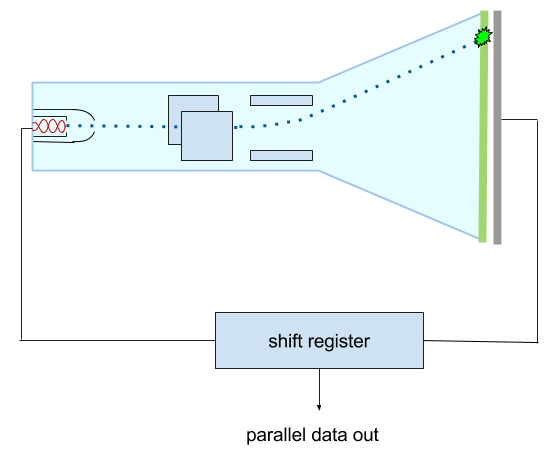
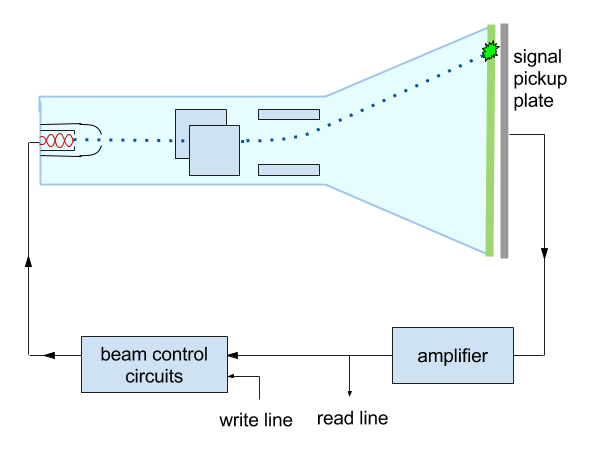
wheee last edit

diff --git a/content/post/2016-08-07-williams-tube.md b/content/post/2016-08-07-williams-tube.md
@@ -5,45 +5,53 @@ draft: true
 tags: [computers, history of technology, storage]
 ---
 
-Last post, we described the fairly ubiquitous punch card, a mechanical write-once mechanism for storing information. Both the [Colossus](https://en.wikipedia.org/wiki/Colossus_computer) and the [ENIAC](https://en.wikipedia.org/wiki/ENIAC) used paper tape for data input, but a complicated system of patchcords for the control programs. Reprogamming these machines was a huge undertaking, and researchers began to discuss using the same storage mechanisms for both program control and data input.
+In the [last post](/post/2016-07-27-punch-cards/), we discussed the fairly ubiquitous punch card, a mechanical write-once mechanism. Punch cards were mostly used for data, though, and control programs were inputted through a complicated system of patch cords. Reprogamming these machines was a huge undertaking! To speed up this process, researchers proposed using easily replaceable storage mechanisms for storing both programs and data input.
 
-This sort of truly reprogrammable computer would require some sort of memory device to store the programs. While it's possible to build computers using mechanical memory, most mechanical memory systems are slow and fiddly. Developing electronic storage was the next big frontier in computer design.
+{{<figure class="left" src="/images/williams-tube/eniac4.png" caption="Two women wiring a portion of ENIAC with a new program." attr="U.S. Army Photo." attrlink="http://ftp.arl.mil/ftp/historic-computers">}}
 
-With the stage set, let's now pick up the story in Manchester (coincidentally, a city well-known for its textiles industry.)
+While it's possible to build computers using mechanical memory, most mechanical memory systems are slow and fiddly. Developing electronic storage was the next big frontier in computer design.
 
-## Cathode ray tubes and radar
+With the stage set, let's pick up the story in Manchester (coincidentally, a city well-known for its textiles industry!) In the late 1940s, researchers at Manchester University developed the first electronic computer memory, essentially by cobbling together surplus World War II radar parts. By making a few ingenious modifications to a cathode ray tube, Frederic Williams' and Tom Kilburn's lab at Manchester built the first truly reprogrammable computer.
 
-The first cathode ray tube used as display was invented just before the turn of the 20th century. They were soon used widely for oscilloscopes, and TKTK other uses. Cathode ray tubes were a common way to display electrical information.
+## An early history of cathode ray tubes
 
-// image of a WWII era radar screen
+The first display cathode ray tube was invented just before the turn of the 20th century. These tubes were soon used widely as display units for oscilloscopes and other scientific instrumentation. Soon, cathode ray tubes became the defacto method of displaying electrical information.
 
-During the Second World War, cathode ray tubes became ubiquitous in radar systems, which kicked off research and development of more advanced CRT technology. One promising advance was adding delay lines to CRT displays to allow you to track the movement of radar targets over time. While at the Telecommunications Research Institute, Frederic C. Williams began researching using cathode ray tubes themselves as a memory storage device, instead of adding a separate delay line in. When Williams accepted a professorship at the University of Manchester, he brought his CRT research with him, along with his his colleague Tom Kilburn.
+During the Second World War, cathode ray tubes became ubiquitous in radar systems, which jump-started research into more advanced CRT technology. For example, researchers added delay lines into radar systems, so the systems could store and filter out out non-moving objects, like buildings and telephone poles.[^delay]
 
-## Secondary effects
+These early delay line systems were well-suited for conversion into computer memory. One branch of research adapted the delay lines as computer memory (which we'll talk about next post!), and another investigated using the CRTs themselves to store data. A group at Bell Labs attempted to cancel out ground objects by transferring data from one CRT to another.[^ground] During a visit to the labs, Frederic C. Williams learned of this effort, and he and Tom Kilburn attempted to use the same CRT setup to store digital data. When Williams accepted a professorship at the University of Manchester, he brought both his CRT research and Tom Kilburn with him.
 
-A conventional CRT displays an image by firing an electron beam at a phosphorescent screen. Two electrostatic plates (or magnets[^1]) steer the beam around, scanning across the entire screen.
+## Secondary effects: principles of operation
+
+Backing up a moment to discuss how CRTs work -- a conventional CRT displays an image by firing an electron beam at a phosphorescent screen. Two electrostatic plates (or magnets[^1]) steer the beam around, scanning across the entire screen.
 
 {{<figure class="left" src="/images/williams-tube/cathode-ray-tube.png">}}
 
-The brightness, color, and persistence of the scintillation depends on the type of phosphor on the screen. Depending on the phosphor and the energy of the electron beam, the bright spot lasts from microseconds to several seconds. In normal operation of a CRT, though, once written, the bright spot on the screen can't be detected again electronically.
+The brightness, color, and persistence of the scintillation depends on the type of phosphor on the screen. Depending on the phosphor and the energy of the electron beam, the bright spot lasts from microseconds to several seconds. During normal operation of a CRT, though, once written, the bright spot on the screen can't be detected again electronically.
 
-However, if you crank up the energy of the electron beam, the beam knocks a few electrons out of the phosphor. These electrons deposit a little distance away from the bright spot, leaving a little charged bullseye. You can electronically detect the charged area the [secondary emission](https://en.wikipedia.org/wiki/Secondary_emission) leaves behind.
+However, if you crank up the energy of the electron beam, the beam knocks a few electrons out of the phosphor, which is an effect called secondary emission. The electrons deposit a little distance away from the bright spot, leaving a little charged bullseye that persists for a little while.
 
-If you coat the surface with a poor conductor, instead of a phosphor, you get an even stronger secondary emission. (TK: check with harold) To read the data, the tube takes advantage of another secondary effect. When the electron beam hits the screen, the secondary emission of electrons induces a small voltage in any conductors near it.  If you place a thin metal surface in front of the surface, the screen and the coating together serve as a capacitor, separated by the glass of the screen. Changes in voltage on the screen induce a change in the screen, as well.
+To read the data, the tube takes advantage of another secondary effect. When the electron beam hits the screen, the secondary emission of electrons induces a small voltage in any conductors near it.  If you place a thin metal surface in front of the surface, the screen and the coating together serve as a capacitor, separated by the glass of the screen. Changes in voltage on the screen induce a change in the screen, as well.
 
 {{<figure class="left" src="/images/williams-tube/williams-tube.png">}}
 
-To write the data, the electron beam sweeps across the face of the tube, turning on and off to represent the binary data. The little charged areas across the screen represent little capacitors that are either charged up or not.
+To recap:
 
-To read the data, the electron beam again sweeps across the face of the tube, but stays on through the sweep. This writes a 1 to all the registers on the screen. If there were a 1 written there already, the point of positive charge on the screen gets neutralized, discharging the "capacitor." The pickup screen thus sends a pulse of current. If there were a 0, the screen is charged, and the pickup plate sees no pulse. By noting the pattern of current that comes through the pickup plate, you can determine what bit was stored in the register.
+To write data, the electron beam sweeps across the face of the tube, turning on and off to represent the binary data. The little charged areas across the screen are essentially little charged/uncharged capacitors.
+
+To read data, the electron beam again sweeps across the face of the tube, but stays on at a lower energy. If there were a 1 written there already, the point of positive charge on the screen gets neutralized, discharging the capacitor. The pickup screen thus sends a pulse of current. If there were a 0, no discharge occurs, and the pickup plate sees no pulse. By noting the pattern of current that comes through the pickup plate, you can determine what bit was stored in the register.[^tube]
 
 {{<figure class="left" src="/images/williams-tube/dot-zero.jpeg" attr="Image courtesy the Computer History Museum.">}}
 
-Williams, on a visit to Bell Labs, saw researchers taking advantage of this effect to cancel out ground echoes in radar by moving the signal from one tube to another. When he came back to the TRE in 1946, he worked on using this method to store digital data, and succeeded storing a single bit. When he and Kilburn moved to Manchester, they worked on developing a tube with slightly more storage capacity.
+Since the read is destructive, any read is followed by a write to the same location with the data just read. That said, the charged areas leak away over time, anyway, so a refresh/rewrite process is necessary. Modern DRAM has a similar memory refresh procedure, too!
+
+The Williams tube was true random access memory -- you could scan the electron beam to any point in the screen to access data near-instantly. Other forms of contemporary memory had to be sequentially accessed.
+
+After Williams' visit to Bell Labs, where he observed researchers using these effects to transfer data between CRTs used in radar, he set out working on duplicating this work for digital data. When he came back to the TRE in 1946, Kilburn and Williams built a tube that succeeded in storing a single bit. When Williams and Kilburn moved to Manchester, they worked on developing a tube with slightly more storage capacity.
 
 ## The Manchester Baby
 
-Once they'd built the Williams tube, they wanted to ensure that it'd work as intended in a computer. To demonstrate this, they built the Small Scale Experimental Machine (colloquially known as the Manchester Baby) around the tube.
+After the team at Manchester had a working memory tube that stored 1024 bits, they wanted to test the system in a proof-of-concept computer. They had a tube that would store data written to it manually, at slow speeds, but they wanted to test that the whole system would still work when it was written to constantly, at electronic speeds. To demonstrate that the tube worked as computer memory, they built the Small Scale Experimental Machine (colloquially known as the Manchester Baby) as a test bed.
 
 {{<figure class="left" src="/images/williams-tube/baby.JPG">}}
 
@@ -56,18 +64,24 @@ The Baby consisted of 4 CRTs --
  
 Williams-Kilburn tubes are an unusually introspectable data storage device!
 
-Programs were entered one word at a time, using a set of 32 switches. The first program run calculated factors for large numbers. Later, Turing later wrote a program that did long division (the Baby could only do subtraction and negation.)
+Programs were entered one word at a time, using a set of 32 switches. The first program run calculated factors for large numbers. Later, Turing later wrote a program that did long division (the Baby could only do subtraction and negation.) Thus, the first stored-program computer was built around a cathode ray tube!
 
 ## Later history
 
-The parts of the Baby were repurposed for the Manchester Mark 1, which was a larger and more functional stored-program computer. The Mark 1 developed into the Ferranti Mark 1, which was the first commercially available general-purpose computer.
+Parts from the Manchester Baby were repurposed for the Manchester Mark 1, which was a larger and more functional stored-program computer. The Mark 1 developed into the Ferranti Mark 1, which was the first commercially available general-purpose computer.
 
-The Williams-Kilburn was used as RAM and storage in a number of other early computers. The MANIAC computer, which did hydrogen bomb design calculations at Los Alamos, used 40 Williams-Kilburn tubes to store 1024 40-bit numbers.
+The Williams-Kilburn tube was used as RAM and storage in a number of other early computers. The MANIAC computer, which did hydrogen bomb design calculations at Los Alamos, used 40 Williams-Kilburn tubes to store 1024 40-bit numbers.
+
+Though the tubes played a large part in early computer history, they were quite difficult to maintain and run. They had to be tuned by hand frequently, and were eventually phased out in favor of core memory.
 
 ## Other Resources
 
-- Tom Kilburn on the development of the tube: http://www.cs.man.ac.uk/CCS/res/res02.htm#e
-- The Manchester Baby (https://www.youtube.com/watch?v=SpqayTc_Gcw)
-- The Nature letter from Williams and Kilburn about the SSEM (http://www.nature.com/physics/looking-back/williams/index.html)
+- [A short video documentary on the Manchester Baby](https://www.youtube.com/watch?v=SpqayTc_Gcw)
+- [The Nature letter from Williams and Kilburn about the SSEM](http://www.nature.com/physics/looking-back/williams/index.html)
+- and the links in the footnotes below!
 
-[^1]: Oscilloscopes and Williams tubes use electrostatic plates, since they have a better frequency response, and so operate faster. The magnetic coils used in television CRTs present an inductive load, so they're harder to drive at high frequencies. That said, televisions use magnetic deflection since the plates obstruct (and distort) the beam when the deflection angle is large, so magnetic deflection is better for large screens. [themoreyouknow.gif]
+[^1]: Oscilloscopes and Williams tubes use electrostatic plates, since they have a better frequency response, and so operate faster. The magnetic coils used in television CRTs present an inductive load, so they're harder to drive at the high frequencies oscilloscopes use. On the other hand, televisions use magnetic deflection since the plates obstruct (and distort) the beam when the deflection angle is large, so magnetic deflection is better for large screens/short tube lengths. [themoreyouknow.gif]
+[^secondary]:  This effect is known as [secondary emission](https://en.wikipedia.org/wiki/Secondary_emission).
+[^tube]: More information [about the tube's operation](http://ed-thelen.org/comp-hist/navy-williams-tube-memory-desc.html) from a Naval training manual on digital computers!
+[^ground]: Kilburn [wrote about Williams' visit to Bell Labs](http://www.cs.man.ac.uk/CCS/res/res02.htm#e) and the general development of the tube many years later.
+[^delay]: [This Wikipedia section](https://en.wikipedia.org/wiki/Delay_line_memory#Genesis_in_radar) describes the motivation for canceling out ground echoes in radar systems in more detail.
